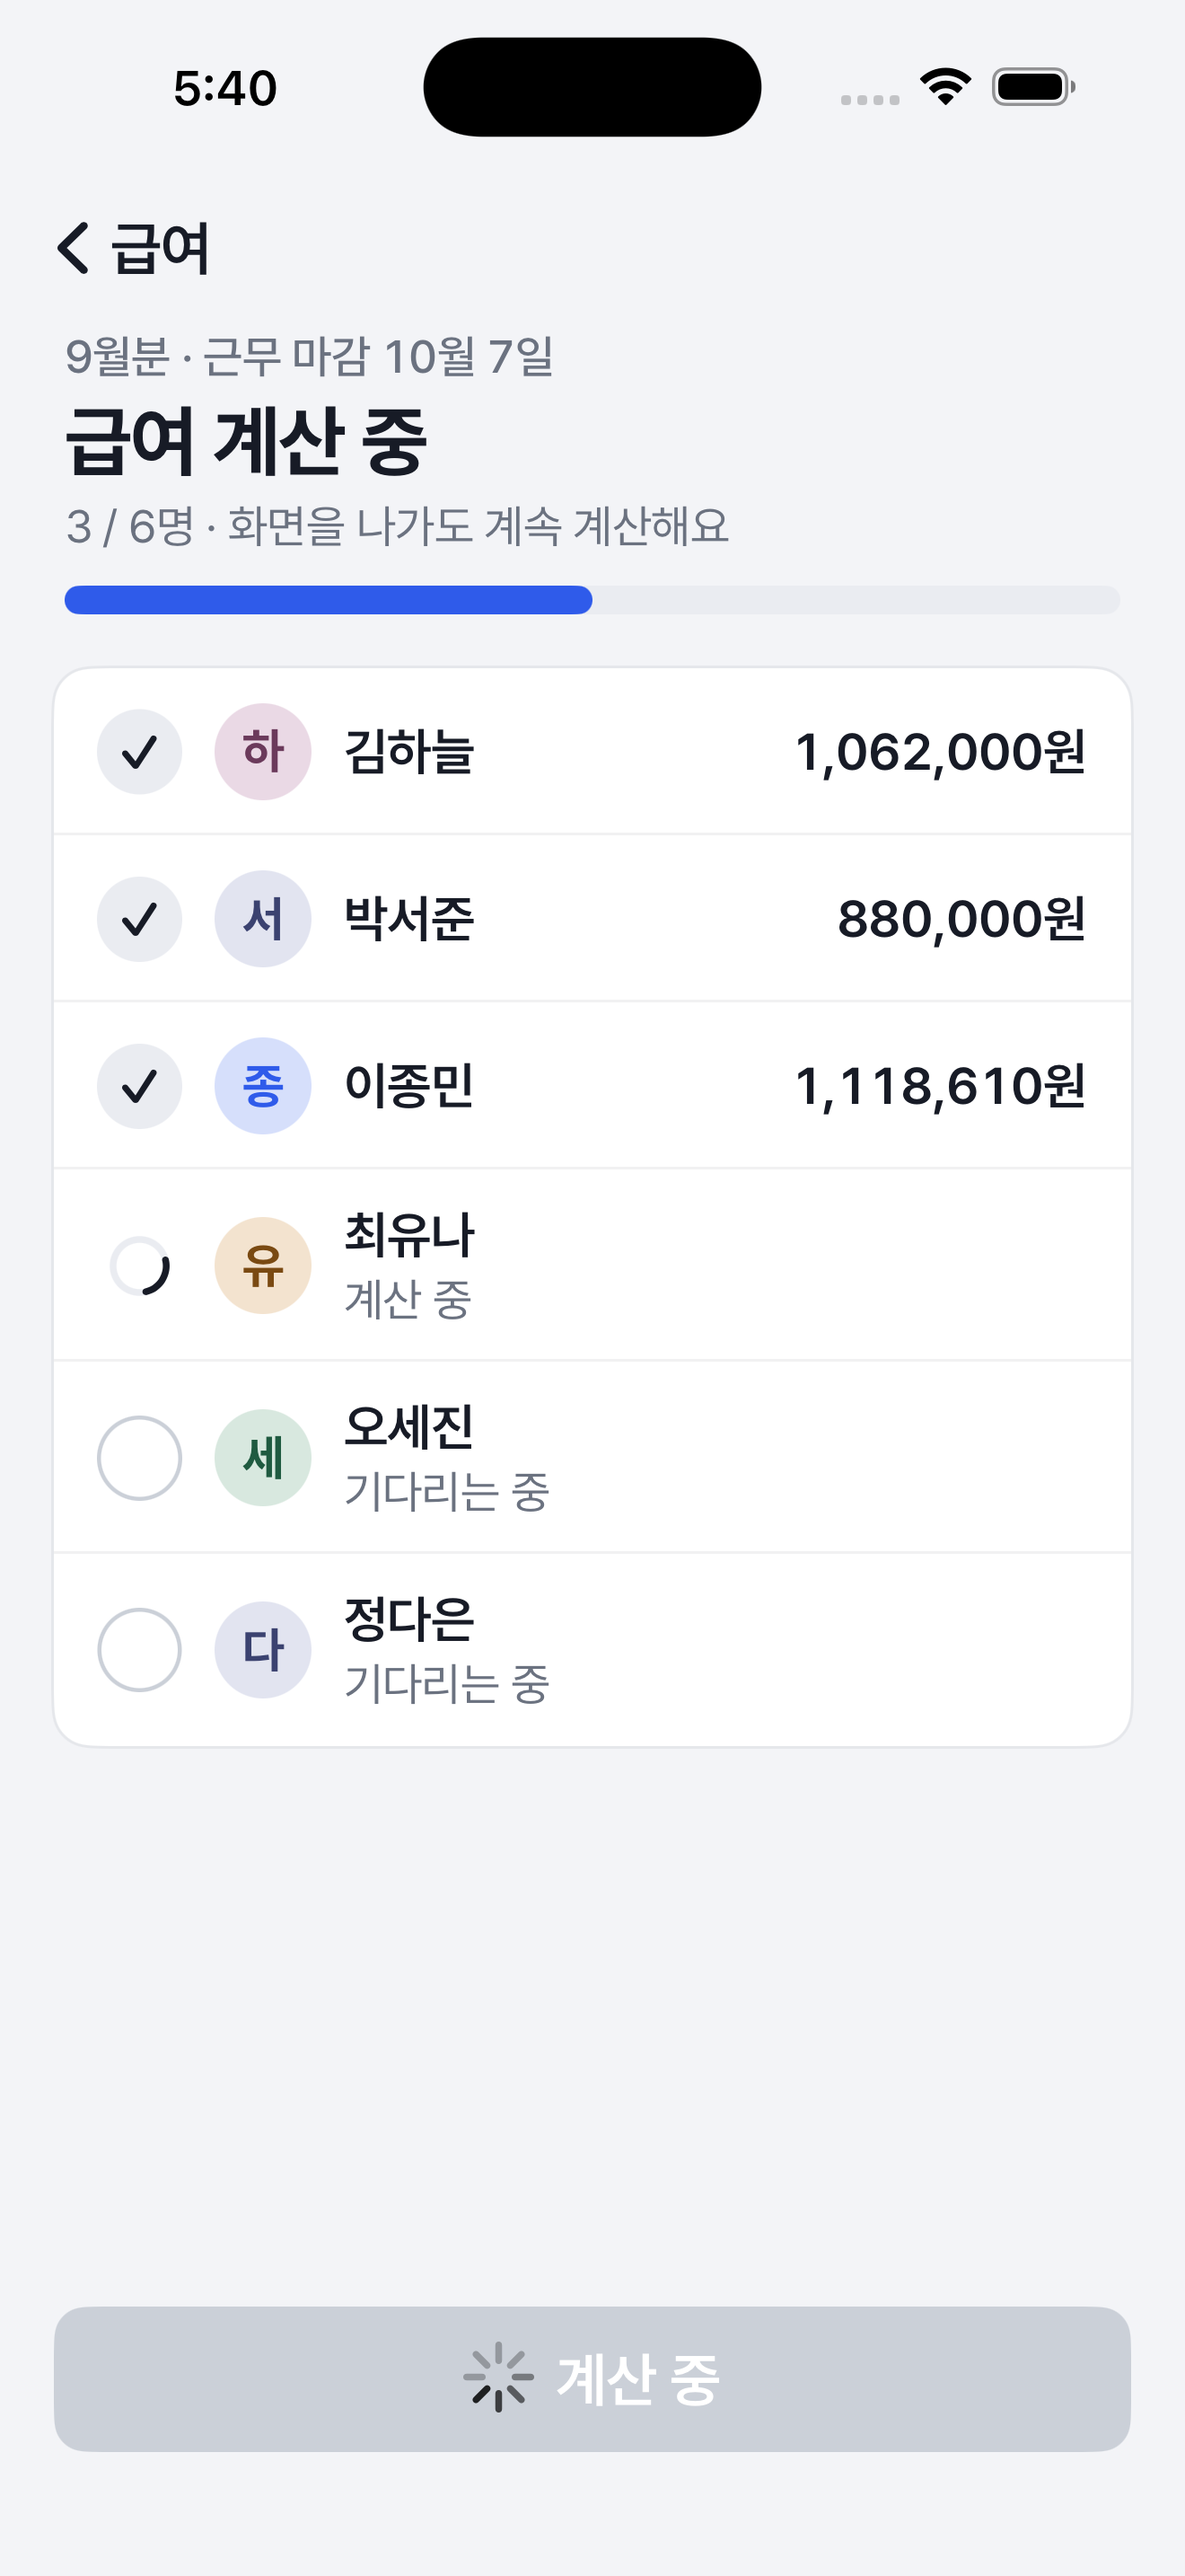
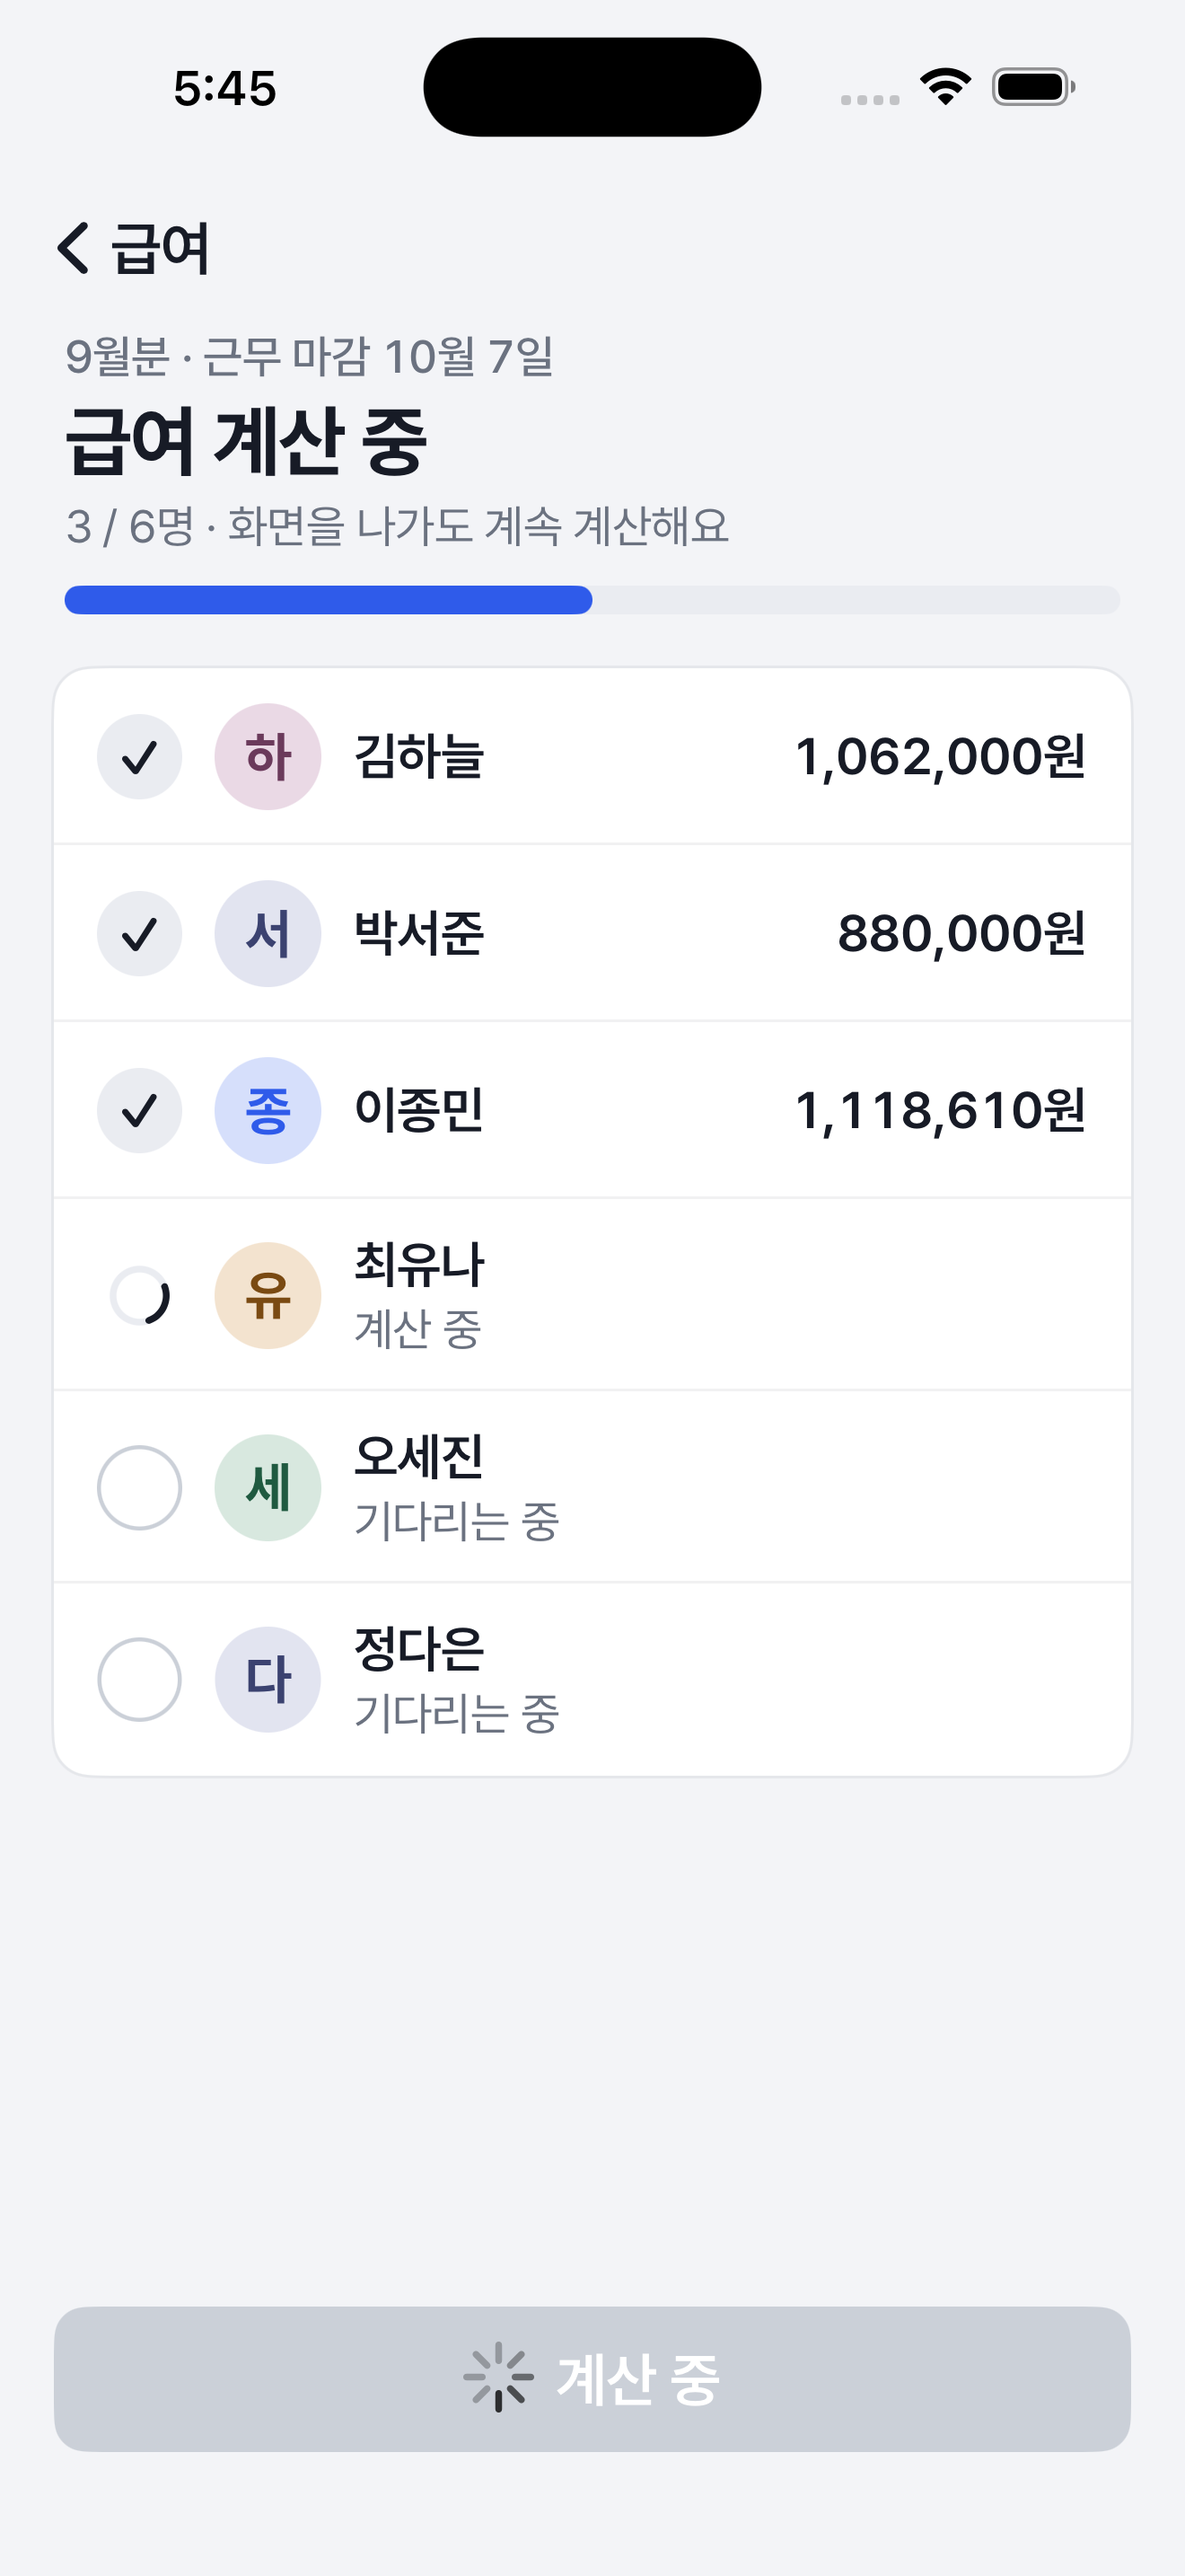
fix(payroll): 21l 아바타 원문 크기 · 읽기 중복 정리 · 경계 테스트
QA 반영
- 아바타를 원문 실측 30(@ScaledMetric)으로
- 행의 「n번째」 읽기 제거, 진행 막대는 문구와 같은 내용이라 숨김
- 완료 · 금액 없음, 비율 범위 밖, 고정 문구 테스트

UI-IOS-21l · #297

diff --git a/Pum/Pum/Features/Payroll/PayrollCalculating/PayrollCalculatingView.swift b/Pum/Pum/Features/Payroll/PayrollCalculating/PayrollCalculatingView.swift
@@ -9,6 +9,8 @@ struct PayrollCalculatingView: View {
     @Environment(\.accessibilityReduceMotion) private var reduceMotion
     @ScaledMetric(relativeTo: .body) private var circleSize = Local.stepCircle
     @ScaledMetric(relativeTo: .body) private var barHeight = PumTokens.Space.s8
+    /// 아바타 지름 — 원문 실측 약 30(공통 기본 36보다 작음)
+    @ScaledMetric(relativeTo: .body) private var avatarSize: CGFloat = 30
 
     init(state: PayrollCalculatingState = .sample, onBack: @escaping () -> Void = {}) {
         self.state = state
@@ -36,7 +38,7 @@ struct PayrollCalculatingView: View {
                     titleBlock
                     PumCard {
                         ForEach(Array(state.rows.enumerated()), id: \.element.id) { index, row in
-                            rowView(row, index: index, isLast: index == state.rows.count - 1)
+                            rowView(row, isLast: index == state.rows.count - 1)
                         }
                     }
                     .animation(PumMotion.respecting(reduceMotion, PumMotion.fast), value: state.rows) // M37 행 fast
@@ -82,8 +84,7 @@ struct PayrollCalculatingView: View {
             Text(state.progressText).pumText(.footnote).foregroundStyle(PumColor.textSecondary)
                 .accessibilityLabel(Text(state.progressAccessibilityText))
             bar.padding(.top, PumTokens.Space.s8)
-                .accessibilityElement(children: .ignore)
-                .accessibilityLabel(Text(state.progressAccessibilityText))
+                .accessibilityHidden(true) // 위 진행 문구가 같은 내용을 읽음
         }
         .padding(.horizontal, PumTokens.Space.s4)
         .padding(.bottom, PumTokens.Space.s8)
@@ -105,10 +106,10 @@ struct PayrollCalculatingView: View {
 
     // MARK: 직원 행
 
-    private func rowView(_ row: PayrollCalculatingRow, index: Int, isLast: Bool) -> some View {
+    private func rowView(_ row: PayrollCalculatingRow, isLast: Bool) -> some View {
         HStack(spacing: PumTokens.Space.s12) {
             statusMark(row.status)
-            PumAvatar(name: row.name, colorIndex: row.colorIndex)
+            PumAvatar(name: row.name, colorIndex: row.colorIndex, size: avatarSize)
             // 금액은 넘치면 이름 아래로
             ViewThatFits(in: .horizontal) {
                 HStack(alignment: .center, spacing: PumTokens.Space.s8) {
@@ -131,7 +132,6 @@ struct PayrollCalculatingView: View {
         }
         .accessibilityElement(children: .ignore)
         .accessibilityLabel(Text(row.accessibilityText))
-        .accessibilityValue(Text("\(index + 1)번째"))
     }
 
     private func nameBlock(_ row: PayrollCalculatingRow) -> some View {

diff --git a/Pum/PumTests/Features/Payroll/PayrollCalculatingTests.swift b/Pum/PumTests/Features/Payroll/PayrollCalculatingTests.swift
@@ -37,4 +37,23 @@ struct PayrollCalculatingTests {
         #expect(waiting.amountText == nil)
         #expect(done.amountText == "500,000원")
     }
+
+    @Test func 완료인데_금액이_아직_없으면_이름과_완료만() {
+        let r = PayrollCalculatingRow(id: 7, name: "오세진", colorIndex: 4, status: .done, amountWon: nil)
+        #expect(r.amountText == nil)
+        #expect(r.accessibilityText == "오세진, 완료")
+    }
+
+    @Test func 진행_비율은_0과_1_사이로() {
+        let over = PayrollCalculatingState(periodText: "", doneCount: 7, totalCount: 6, rows: [])
+        let negative = PayrollCalculatingState(periodText: "", doneCount: -1, totalCount: 6, rows: [])
+        #expect(over.progressFraction == 1)
+        #expect(negative.progressFraction == 0)
+    }
+
+    @Test func 고정_문구() {
+        #expect(PayrollCalculatingState.backTitle == "급여")
+        #expect(PayrollCalculatingState.title == "급여 계산 중")
+        #expect(PayrollCalculatingState.buttonTitle == "계산 중")
+    }
 }

diff --git a/docs/design/compare/screens/README.md b/docs/design/compare/screens/README.md
@@ -1097,6 +1097,7 @@
 | 배치 · 문구 | ‹ 급여 / 9월분 · 근무 마감 10월 7일 · 급여 계산 중 · 3 / 6명 · 화면을 나가도 계속 계산해요 · 진행 막대 / 6행(완료 ✓ + 금액 · 계산 중 회전 · 기다리는 중 빈 원) / 계산 중 버튼 | 같음 | 일치 |
 | 진행 막대 색 | 화면 원문 파랑 · 모션 문서 M37 「막대 먹색」(충돌 18) | 화면 원문대로 파랑 | 결정 필요 |
 | 기다리는 중 빈 원 | 회색 테두리 | 처음엔 아주 옅은 선 → 10x와 같은 gray300으로 고침 | 고침 |
+| 아바타 크기 | 약 30 | 처음엔 공통 기본 36 → 원문 실측 30(@ScaledMetric) | 고침 |
 | 정다은 아바타 | 연보라 | 팔레트 6색에 없어 남색(근사) | 근사 |
 | 처리 중 버튼 | 옅은 파랑 | 공통 PumButton 회색(21m과 같은 결정 필요) | 결정 필요 |
 | 값 | 엔진 값 | 금액 · 진행 수 계산 없음, 카운트업 없음, 타이머 없음 | 일치 |
